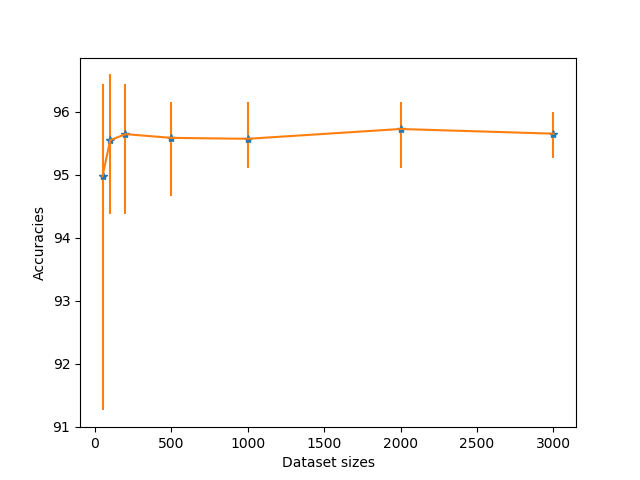
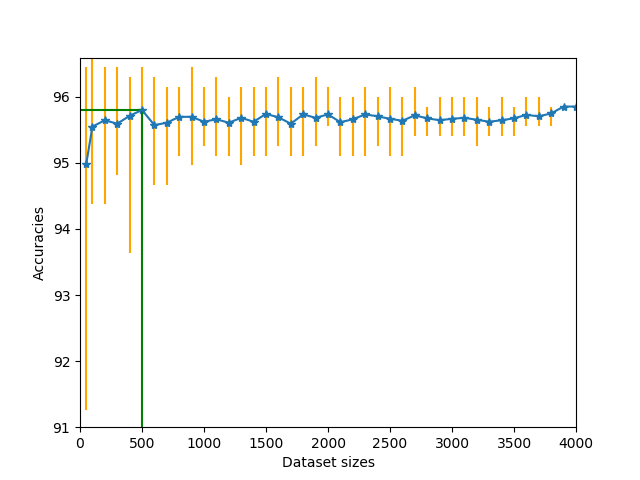
cleaned up code; added comments; modified error plot

diff --git a/pa2.py b/pa2.py
@@ -2,93 +2,10 @@ import numpy as np
 import functions as f
 from scipy.stats import multivariate_normal
 import matplotlib.pyplot as plt
+from scipy.interpolate import interp1d
 
+# seeding
 np.random.seed(seed=42)
-
-def getPrior(y) :
-    unique, counts = np.unique(y, return_counts=True)
-    return unique, np.array(counts/sum(counts)).reshape(1,-1)
-
-# According to MLE, estimate mean of distribution using sample mean
-def getMLE(X,y) :
-    unique = np.unique(y, return_counts=False)
-    means = []
-    for class_val in unique :
-        means.append(np.mean(X[np.where(y==class_val)],axis=0))
-    return means
-
-def getConditionalSameCov(X, mu, sigma, mode):
-    prob = []
-    for class_val in range(mu.shape[0]) :
-        if mode == "naive" :
-            value = 1
-            for feature in range(mu.shape[1]) :
-                value *= (multivariate_normal.pdf(X[:,feature],mean=mu[class_val][feature],cov=sigma[feature][feature]))
-        else :
-            value =  multivariate_normal.pdf(X,mean=mu[class_val],cov=sigma)
-        prob.append(value)
-    return np.transpose(np.array(prob))
-
-def getConditionalDiffCov(X, mu, sigma, mode):
-    prob = []
-    for class_val in range(mu.shape[0]) :
-        if mode == "naive" :
-            value = 1
-            for feature in range(mu.shape[1]) :
-                value *= (multivariate_normal.pdf(X[:,feature],mean=mu[class_val][feature],cov=sigma[class_val][feature][feature]))
-        else :
-            value =  multivariate_normal.pdf(X,mean=mu[class_val],cov=sigma[class_val])
-        prob.append(value)
-    return np.transpose(np.array(prob))
-
-def getRisk(lossfunction, classConditional, prior) :
-    return np.transpose(np.matmul(lossfunction,np.transpose(np.multiply(classConditional,prior))))
-
-# compute for test set
-def getModel(X, y, means, cov, lossfunction, prior, mode, covmode) :
-    if covmode == "same":
-        classConditional = getConditionalSameCov(X, means, cov, mode)
-    else:
-        classConditional = getConditionalDiffCov(X, means, cov, mode)
-    risk = getRisk(lossfunction, classConditional, prior)
-    prediction = np.argmin(risk, axis=1)
-    accuracies = np.sum(prediction == y)/y.shape[0]*100
-    return prediction, accuracies
-
-def getCovMatrix(X):
-    n = len(X)
-    cov_mat = []
-    for i in range(n):
-        for j in range(n):
-            cov_mat.append(getCovariance(X[i], X[j]))
-    return np.reshape(cov_mat, (n, n))
-
-def getCompleteCovMatrix(X, y):
-    unique = np.unique(y, return_counts=False)
-    covs = []
-    for class_val in unique :
-        covs.append(getCovMatrix(np.transpose(X[np.where(y==class_val)])))
-    return covs
-
-def mean(X):
-    n = len(X)
-    mean_x = 0.0
-    for i in range(n):
-        mean_x += X[i]
-    mean_x = mean_x/n
-    return mean_x
-
-def getCovariance(X1, X2):
-    Z = []
-    # print(X1)
-    n = len(X1)
-    for i in range(n):
-        Z.append(X1[i]*X2[i])
-    e_x1x2 = mean(Z)
-    e_x1 = mean(X1)
-    e_x2 = mean(X2)
-    cov = e_x1x2 - (e_x1*e_x2)
-    return cov
 
 # dataset 2 gives best accuracy with Model 5 in problem 1
 data = np.loadtxt("../Datasets_PRML_A1/Dataset_2_Team_39.csv", delimiter=',', dtype=None)
@@ -105,7 +22,8 @@ y_test = data[train_size:train_size+test_size,-1]
 
 # X_train = data[:train_size,:2]
 # y_train = data[:train_size,-1]
-dataset_sizes = [50,100, 200, 500, 1000, 2000, 3000]
+dataset_sizes = [x*100 for x in range(41)]
+dataset_sizes[0] = 50
 
 lossfunction = np.array([[0,1,2],[1,0,1],[2,1,0]])
 
@@ -119,30 +37,34 @@ for ds in dataset_sizes:
         np.random.shuffle(data_train)
         X = data_train[:ds,:2]
         y = data_train[:ds,-1]
-        classes, prior = getPrior(y)
-        means = np.array(getMLE(X, y))
-        cov_rand = getCompleteCovMatrix(X, y)
-        train_pred, train_acc =  getModel(X, y, means, cov_rand, lossfunction, prior, "bayes", "diff")
-        test_pred, test_acc =  getModel(X_test, y_test, means, cov_rand, lossfunction, prior, "bayes", "diff")
+
+        # training the classifier; obtaining train and test accuracies
+        classes, prior = f.getPrior(y)
+        means = np.array(f.getMLE(X, y))
+        cov_rand = f.getCompleteCovMatrix(X, y)
+        train_pred, train_acc =  f.getModel(X, y, means, cov_rand, lossfunction, prior, "bayes", "diff")
+        test_pred, test_acc =  f.getModel(X_test, y_test, means, cov_rand, lossfunction, prior, "bayes", "diff")
         test_accuracy.append(test_acc)
 
-    yerr[0][idx] = np.abs(np.min(test_accuracy)-mean(test_accuracy))
-    yerr[1][idx] = np.abs(np.max(test_accuracy)-mean(test_accuracy))
+    # getting the minimum and maximum for error bars
+    yerr[0][idx] = np.abs(np.min(test_accuracy)-f.mean(test_accuracy))
+    yerr[1][idx] = np.abs(np.max(test_accuracy)-f.mean(test_accuracy))
     idx+=1
-    accuracies.append(mean(test_accuracy))
+    accuracies.append(f.mean(test_accuracy))
 
-# print(yerr)
 dataset_sizes = np.array(dataset_sizes)
 yerr = np.array(yerr)
 accuracies = np.array(accuracies)
-print(yerr.shape, dataset_sizes.shape)
-# print(dataset_sizes)
-# print(accuracies)
-print(dataset_sizes, accuracies, yerr)
+
+# interpolating to find the number of training sample reqd to get 95.8% test accuracy
+n_spl = interp1d(accuracies, dataset_sizes)
+print(n_spl(95.8))
 plt.plot(dataset_sizes, accuracies,'*')
-# print(dataset_sizes.shape, accuracies.shape, yerr.shape)
-plt.errorbar(dataset_sizes, accuracies, yerr)
+plt.plot([0, n_spl(95.8)], [95.8, 95.8], 'g')
+plt.plot([n_spl(95.8), n_spl(95.8)], [91, 95.8], 'g')
+plt.errorbar(dataset_sizes, accuracies, yerr, ecolor='orange')
 plt.xlabel("Dataset sizes")
 plt.ylabel("Accuracies")
+plt.margins(0)
 plt.savefig("results/q2.png")
 plt.show()
